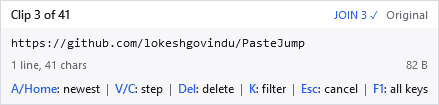
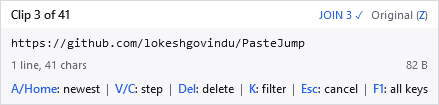
Let a chip name the key that changes it
Asked for: the overlay says "Original" and nothing on screen says how to make it
anything else. True - the footer hint lists stepping and leaving, not the chips,
so F1 was the only answer to a question asked while looking at the top right
corner.

The rule I settled on is more general than the one thing asked for: a chip that
shows CYCLING state names its own key. So "Original (Z)" and, for the same
reason, "images only (K)". Letter accented, brackets muted, which are the colours
the footer already uses for keys - the two read as one idea rather than as two
inventions.

Three conditions, each stopping the chip from lying:

The letter comes from the key map, so someone who moves the format cycle to G
sees (G). Literals here would repeat the mistake the footer and the F1 card were
both fixed for.

A null letter - the action switched off - leaves a plain name rather than empty
brackets.

The whole parenthetical is suppressed when key hints are off. It is a key hint
wherever it happens to sit, and someone who turned the footer off to quieten the
overlay did not ask for the same information moved somewhere else.

Two deliberate omissions. Not the JOIN chip: it only appears once a clip is
marked, so its reader has already found the key, and that is the clutter the join
key was taken out of the footer for. And "K: filter" stays in the footer even
though the chip now names K, because the chip exists only while a filter is on -
[…]

Changed region(s): [[0.7107, 0.0857, 0.9772, 0.2]]

diff --git a/docs/help/gesture.html b/docs/help/gesture.html
@@ -267,6 +267,9 @@ confident wrong count.</p>
 <li>A preview: the text, or the picture for an image clip, or the file names for a file copy.</li>
 <li>Chips for the current paste format, whether the clip is pinned, whether <code>Shift</code> is
 holding a pop, how many clips are marked to be joined, its tags, and which application it was copied from.</li>
+<li>The two chips that show something you can <i>cycle</i> &mdash; the paste format and the kind filter &mdash;
+name the key that changes them, as <b>Original&nbsp;(Z)</b> and <b>images&nbsp;only&nbsp;(K)</b>. It is your
+letter, not the default, and it disappears along with the key reminders if you switch those off.</li>
 <li>A banner when <code>X</code> has put you in Cancel, Delete or Delete All.</li>
 <li>A row of key reminders along the bottom, which names the keys <i>you</i> have bound rather than the defaults.
 An action you switch off is left out of it.</li>

diff --git a/src/PasteJump.App/Views/OverlayWindow.xaml.cs b/src/PasteJump.App/Views/OverlayWindow.xaml.cs
@@ -64,13 +64,20 @@ public partial class OverlayWindow : Window
     /// </summary>
     public void ApplyKeyHint(bool show, char triggerKey, PasteKeyMap? keyMap = null)
     {
+        var map = keyMap ?? PasteKeyMap.Default;
+
+        // Recorded before the early return below, because the chips need them on every frame while this runs only
+        // when the settings change. Null when the action is switched off, which is what stops a chip naming a key
+        // that does nothing.
+        _showKeyHint = show;
+        _formatKey = map.LetterFor("format");
+        _kindKey = map.LetterFor("kind");
+
         if (!show)
         {
             KeyHintText.Visibility = Visibility.Collapsed;
             return;
         }
-
-        var map = keyMap ?? PasteKeyMap.Default;
 
         // Ordered by how often someone reaching for the hint needs them: getting back to the top, moving, and the
         // two ways out. F1 last, because it is the answer when none of the others were enough.
@@ -127,6 +134,56 @@ public partial class OverlayWindow : Window
         }
     }
 
+    private bool _showKeyHint;
+    private char? _formatKey;
+    private char? _kindKey;
+
+    /// <summary>
+    /// A state chip that names the key which changes it: <c>Original (Z)</c>, <c>images only (K)</c>.
+    /// <para>
+    /// Asked for because the formatter chip said <c>Original</c> and nothing on screen said how to make it anything
+    /// else - the footer hint lists the keys for stepping and leaving, not for the chips, and F1 was the only
+    /// answer. The rule that came out of it is worth keeping general: <b>a chip that shows cycling state names its
+    /// own key</b>, so the thing you are looking at is the thing that tells you.
+    /// </para>
+    /// <para>
+    /// Three conditions, each of which stops the chip lying. The letter comes from the key map, so a rebound format
+    /// key shows its new letter; a <c>null</c> letter means the action is switched off and the chip stays a plain
+    /// name; and the whole parenthetical is suppressed when key hints are off, because that is what the setting
+    /// asks for and this is a key hint wherever it happens to sit.
+    /// </para>
+    /// <para>
+    /// Runs rather than one string, and the same colours the footer uses - accent for the letter, muted for the
+    /// brackets - so the two read as one idea. The name itself inherits whatever the chip's style set, which is how
+    /// the accent-coloured kind filter chip keeps its colour while its brackets go muted.
+    /// </para>
+    /// <para>
+    /// Deliberately NOT applied to the JOIN chip. That one only appears once a clip is marked, so whoever is
+    /// looking at it has already found the key; naming it there would be clutter of exactly the kind that got the
+    /// join key taken out of the footer.
+    /// </para>
+    /// </summary>
+    private void SetChipNamingItsKey(System.Windows.Controls.TextBlock chip, string text, char? key)
+    {
+        chip.Inlines.Clear();
+        chip.Inlines.Add(new System.Windows.Documents.Run(text));
+
+        if (!_showKeyHint || key is not { } letter)
+        {
+            return;
+        }
+
+        var muted = (System.Windows.Media.Brush)FindResource("MutedTextBrush");
+
+        chip.Inlines.Add(new System.Windows.Documents.Run(" (") { Foreground = muted });
+        chip.Inlines.Add(new System.Windows.Documents.Run(letter.ToString())
+        {
+            Foreground = (System.Windows.Media.Brush)FindResource("AccentBrush"),
+            FontWeight = FontWeights.SemiBold,
+        });
+        chip.Inlines.Add(new System.Windows.Documents.Run(")") { Foreground = muted });
+    }
+
     /// <summary>Applies a frame and positions the window at the anchor, clamped to the work area.</summary>
     public void Render(PasteOverlayModel model, int anchorX, int anchorY)
     {
@@ -143,7 +200,7 @@ public partial class OverlayWindow : Window
             ? Visibility.Visible
             : Visibility.Collapsed;
 
-        FormatterChip.Text = model.FormatterName;
+        SetChipNamingItsKey(FormatterChip, model.FormatterName, _formatKey);
         FormatterChip.Visibility = _parts.Formatter ? Visibility.Visible : Visibility.Collapsed;
 
         PinnedChip.Visibility = model.Pinned && _parts.Pinned ? Visibility.Visible : Visibility.Collapsed;
@@ -152,7 +209,7 @@ public partial class OverlayWindow : Window
         // Describe() returns null for "all", which is the state that needs no chip.
         if (model.KindFilter.Describe() is { } filter)
         {
-            KindFilterChip.Text = filter;
+            SetChipNamingItsKey(KindFilterChip, filter, _kindKey);
             KindFilterChip.Visibility = Visibility.Visible;
         }
         else

diff --git a/tests/PasteJump.UiSmoke/Program.cs b/tests/PasteJump.UiSmoke/Program.cs
@@ -305,6 +305,16 @@ internal static class Program
                 // than leaving an empty strip, and that what is left is the preview plus the chips that change what
                 // releasing Ctrl does - here the JOIN count, which no setting can hide.
                 Check("OverlayWindow-Minimal", () => RenderOverlay(JoinMarkFrame(), OverlayParts.Minimal));
+
+                // Key hints off, everything else on. The one combination that exercises the suppression in
+                // SetChipNamingItsKey: the chips still show their state but must NOT name their keys, because the
+                // parenthetical is a key hint wherever it sits. Every other case has hints on or the chips off, so
+                // without this shot the rule would go unrendered - and a chip reading "Original (Z)" with hints
+                // switched off is precisely the kind of thing nobody notices until a user does.
+                Check("OverlayWindow-NoKeyHint", () => RenderOverlay(
+                    KindFilterFrame(),
+                    OverlayParts.All with { KeyHint = false }));
+
                 Check("OverlayWindow-TextFacts", () => RenderOverlay(TextFactsFrame()));
 
                 // A copied TEXT FILE, whose contents are read off disk. Written as a real file because that is

diff --git a/CLAUDE.md b/CLAUDE.md
@@ -975,6 +975,17 @@ Every one of these compiles, builds clean, and silently defeats the theme.
   UI smoke harness. Put shared resources in `Themes/Shared.xaml`.
 - **`DataGridCell.HorizontalContentAlignment` defaults to `Left`**, which makes the content presenter
   shrink to its content — so a column's right-aligned `ElementStyle` silently does nothing.
+- **A chip that shows cycling state names its own key (2026-08-13):** `Original (Z)`, `images only (K)`, letter
+  accented and brackets muted, the same colours the footer hint uses. Asked for because the formatter chip said
+  `Original` and nothing on screen said how to change it — the footer lists stepping and leaving, not the chips,
+  so F1 was the only answer. Three conditions keep it honest: the letter comes from the **key map** so a rebound
+  key shows its own letter, a `null` letter (action switched off) leaves a plain name, and the whole parenthetical
+  is **suppressed when key hints are off**, because it is a key hint wherever it sits. Deliberately not on the
+  JOIN chip — that appears only once a clip is marked, so its reader has already found the key. `K: filter` stays
+  in the footer as well: the chip only exists while a filter is on, so the footer is what makes the feature
+  discoverable, and a footer that changed per frame would be worse than two redundant characters.
+  `OverlayWindow-NoKeyHint` is the shot that covers the suppression — every other case has hints on or the chips
+  off, so without it the rule would go unrendered.
 - **The tray menu is themed and carries icons (2026-08-13), and the cache has to be invalidated when the palette
   changes.** Until then `TrayMenuBuilder` set no colour at all and no theme file mentioned `MenuItem`, so an
   unstyled WPF `ContextMenu` rendered in WPF's own light chrome — a white menu beside a Dracula window, on all
